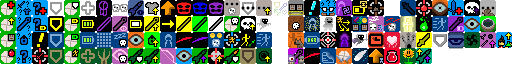
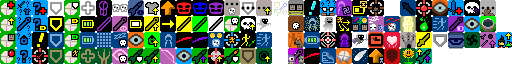
1.2.5: implemented new idea for determined talent
- also changed its icon to represent its new function better

Changed region(s): [[0.75, 0.75, 0.7812, 1.0]]

diff --git a/core/src/main/java/com/shatteredpixel/shatteredpixeldungeon/actors/hero/Hero.java b/core/src/main/java/com/shatteredpixel/shatteredpixeldungeon/actors/hero/Hero.java
@@ -41,6 +41,7 @@ import com.shatteredpixel.shatteredpixeldungeon.actors.mobs.Phantom;
 import com.shatteredpixel.shatteredpixeldungeon.actors.mobs.minions.Minion;
 import com.shatteredpixel.shatteredpixeldungeon.actors.mobs.npcs.GoatClone;
 import com.shatteredpixel.shatteredpixeldungeon.effects.*;
+import com.shatteredpixel.shatteredpixeldungeon.effects.particles.BloodParticle;
 import com.shatteredpixel.shatteredpixeldungeon.items.*;
 import com.shatteredpixel.shatteredpixeldungeon.items.Heap.Type;
 import com.shatteredpixel.shatteredpixeldungeon.items.armor.*;
@@ -1434,6 +1435,10 @@ public class Hero extends Char {
 			damage = rockArmor.absorb(damage);
 		}
 
+		if (damage > 0 && buff(Talent.DeterminedTracker.class) != null){
+			enemy.damage(Math.round(damage*(1.5f+0.5f*(pointsInTalent(Talent.DETERMINED)))), this);
+		}
+
 		return damage;
 	}
 	
@@ -1471,6 +1476,9 @@ public class Hero extends Char {
 		if (buff(ParchmentOfElbereth.parchmentPraying.class) != null){
 			dmg *= 0.8f;
 		}
+		if (buff(Talent.DeterminedTracker.class) != null){
+			dmg	*= 0.75f;
+		}
 
 		//TODO improve this when I have proper damage source logic
 		if (belongings.armor != null && belongings.armor.hasGlyph(AntiMagic.class, this)
@@ -1490,11 +1498,21 @@ public class Hero extends Char {
 
 		if (effectiveDamage <= 0) return;
 
+		if ((HP/(float)HT) < 0.3f && hasTalent(Talent.DETERMINED))
+			Buff.affect(this, Talent.DeterminedTracker.class);
+
 		//flash red when hit for serious damage.
 		float percentDMG = effectiveDamage / (float)preHP; //percent of current HP that was taken
 		float percentHP = 1 - ((HT - postHP) / (float)HT); //percent health after damage was taken
 		// The flash intensity increases primarily based on damage taken and secondarily on missing HP.
 		float flashIntensity = 0.25f * (percentDMG * percentDMG) / percentHP;
+		if (pointsInTalent(Talent.DETERMINED) > 1 && isAlive() && HP != 1){
+			int healing = Math.round(effectiveDamage*Math.min(1/3f, flashIntensity));
+			if (healing > 0) {
+				HP = Math.min(HP + healing, HT);
+				sprite.showStatus(0x00FF00, String.valueOf(healing));
+			}
+		}
 		//if the intensity is very low don't flash at all
 		if (flashIntensity >= 0.05f){
 			flashIntensity = Math.min(1/3f, flashIntensity); //cap intensity at 1/3
@@ -1959,6 +1977,23 @@ public class Hero extends Char {
 					ankh = (Ankh) item;
 				}
 			}
+		}
+
+		if (buff(Talent.DeterminedReviveCooldown.class) == null && pointsInTalent(Talent.DETERMINED) == 3){
+			HP = 1;
+
+			Talent.Cooldown.affectHero(Talent.DeterminedReviveCooldown.class);
+			Buff.affect(this, Haste.class, 1f);
+
+			PotionOfHealing.cure(this);
+			Buff.detach(this, Paralysis.class);
+			spend(-cooldown());
+
+			Sample.INSTANCE.play(Assets.Sounds.HEALTH_CRITICAL, 1.5f);
+			CellEmitter.center(pos).burst( BloodParticle.BURST, 25 );
+			GLog.warning( Messages.get(this, "revive_determined") );
+
+			return;
 		}
 
 		if (ankh != null && ankh.isBlessed()) {

diff --git a/core/src/main/java/com/shatteredpixel/shatteredpixeldungeon/effects/DeterminedAura.java b/core/src/main/java/com/shatteredpixel/shatteredpixeldungeon/effects/DeterminedAura.java
@@ -1,0 +1,76 @@
+/*
+ * Pixel Dungeon
+ * Copyright (C) 2012-2015 Oleg Dolya
+ *
+ *  Shattered Pixel Dungeon
+ *  Copyright (C) 2014-2022 Evan Debenham
+ *
+ * Summoning Pixel Dungeon
+ * Copyright (C) 2019-2022 TrashboxBobylev
+ *
+ * This program is free software: you can redistribute it and/or modify
+ * it under the terms of the GNU General Public License as published by
+ * the Free Software Foundation, either version 3 of the License, or
+ * (at your option) any later version.
+ *
+ * This program is distributed in the hope that it will be useful,
+ * but WITHOUT ANY WARRANTY; without even the implied warranty of
+ * MERCHANTABILITY or FITNESS FOR A PARTICULAR PURPOSE.  See the
+ * GNU General Public License for more details.
+ *
+ * You should have received a copy of the GNU General Public License
+ * along with this program.  If not, see <http://www.gnu.org/licenses/>
+ */
+
+package com.shatteredpixel.shatteredpixeldungeon.effects;
+
+import com.shatteredpixel.shatteredpixeldungeon.sprites.CharSprite;
+import com.watabou.glwrap.Blending;
+import com.watabou.noosa.Game;
+import com.watabou.noosa.Halo;
+
+public class DeterminedAura extends Halo {
+
+	private CharSprite target;
+
+	private float phase = 0;
+
+	public DeterminedAura(CharSprite sprite ) {
+		super(neededRadius(sprite)*2.5f, 0xff1a1a, 0.65f );
+		target = sprite;
+		am = 0;
+	}
+	
+	@Override
+	public void update() {
+		super.update();
+		
+		if (phase < 0) {
+			if ((phase += Game.elapsed) >= 0) {
+				killAndErase();
+			} else {
+				scale.set( (2 + phase) * radius / RADIUS );
+				am = -phase * brightness;
+			}
+		} else if (phase < 1) {
+			if ((phase += Game.elapsed) >= 1) {
+				phase = 1;
+			}
+			scale.set( phase * radius / RADIUS );
+			am = phase * brightness;
+		}
+		
+		point( target.x + target.width / 2, target.y + target.height / 2 );
+	}
+	
+	@Override
+	public void draw() {
+		Blending.setLightMode();
+		super.draw();
+		Blending.setNormalMode();
+	}
+	
+	public void putOut() {
+		phase = -1;
+	}
+}

diff --git a/core/src/main/java/com/shatteredpixel/shatteredpixeldungeon/sprites/CharSprite.java b/core/src/main/java/com/shatteredpixel/shatteredpixeldungeon/sprites/CharSprite.java
@@ -78,7 +78,7 @@ public class CharSprite extends MovieClip implements Tweener.Listener, MovieClip
 	protected float shadowOffset    = 0.25f;
 
 	public enum State {
-		BURNING, LEVITATING, INVISIBLE, PARALYSED, FROZEN, ILLUMINATED, CHILLED, DARKENED, MARKED, HEALING, SHIELDED, FROSTBURNING, SPIRIT, SHRUNK, ALLURED, ENLARGENED, AURA, SWORDS
+		BURNING, LEVITATING, INVISIBLE, PARALYSED, FROZEN, ILLUMINATED, CHILLED, DARKENED, MARKED, HEALING, SHIELDED, FROSTBURNING, SPIRIT, SHRUNK, ALLURED, ENLARGENED, AURA, SWORDS, DETERMINED
 	}
 	private int stunStates = 0;
 	
@@ -109,6 +109,7 @@ public class CharSprite extends MovieClip implements Tweener.Listener, MovieClip
 	protected ShieldHalo shield;
 	protected AlphaTweener invisible;
 	protected HolyAura aura;
+	protected DeterminedAura dAura;
 	
 	protected EmoIcon emo;
 	protected CharHealthIndicator health;
@@ -420,6 +421,9 @@ public class CharSprite extends MovieClip implements Tweener.Listener, MovieClip
 			case AURA:
 				GameScene.effect( aura = new HolyAura( this ));
 				break;
+			case DETERMINED:
+				GameScene.effect( dAura = new DeterminedAura( this ));
+				break;
             case SHRUNK:
                 scale.x = 0.75f;
                 scale.y = 0.75f;
@@ -524,6 +528,11 @@ public class CharSprite extends MovieClip implements Tweener.Listener, MovieClip
 			case AURA:
 				if (aura != null){
 					aura.putOut();
+				}
+				break;
+			case DETERMINED:
+				if (dAura != null){
+					dAura.putOut();
 				}
 				break;
             case SHRUNK:

diff --git a/core/src/main/java/com/shatteredpixel/shatteredpixeldungeon/actors/hero/Talent.java b/core/src/main/java/com/shatteredpixel/shatteredpixeldungeon/actors/hero/Talent.java
@@ -112,7 +112,7 @@ public enum Talent {
     BREAD_AND_CIRCUSES(117, 3, true),
     COMET_FALL(118, 3),
     SPYDER_MAN(119, 3),
-    DETERMINED(120, 3),
+    DETERMINED(120, 3, true),
     MY_SUNSHINE(121, 3, true),
     OLYMPIC_SKILLS(122, 3),
     REAL_KNIFE_MASTER(25, 3),
@@ -318,6 +318,32 @@ public enum Talent {
             super.restoreFromBundle(bundle);
             sunCount = bundle.getInt(SUN);
         }
+    }
+
+    public static class DeterminedTracker extends Buff {
+        @Override
+        public boolean act() {
+            if (target.isAlive() && (target.HP/(float)target.HT) < 0.3f) {
+                spend( TICK );
+            } else {
+                detach();
+            }
+
+            return true;
+        }
+
+        @Override
+        public void fx(boolean on) {
+            if (on) target.sprite.add(CharSprite.State.DETERMINED);
+            else target.sprite.remove(CharSprite.State.DETERMINED);
+        }
+    }
+    public static class DeterminedReviveCooldown extends Cooldown {
+        public float duration() {
+            return 500;
+        }
+        public int icon() { return BuffIndicator.TIME; }
+        public void tintIcon(Image icon) { icon.hardlight(0xcc0c0c); }
     }
 
     public static class SniperPatienceCooldown extends Cooldown {
